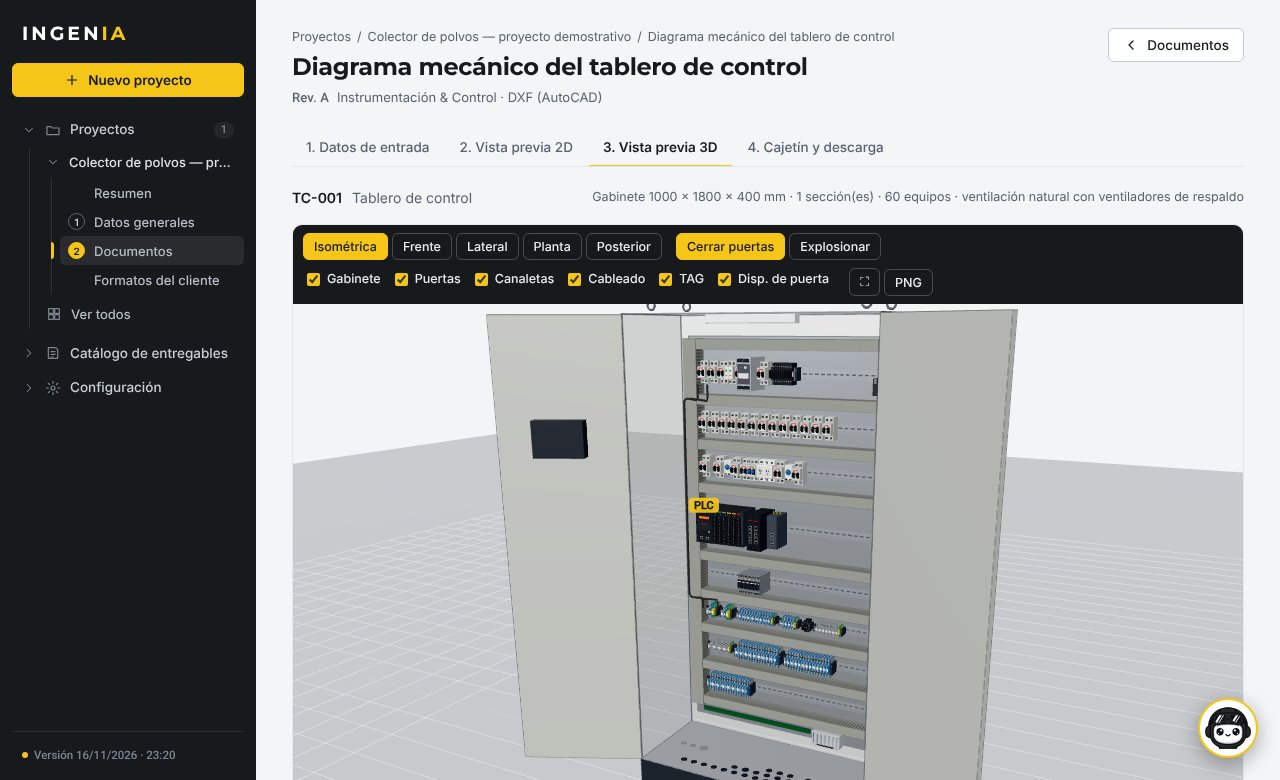
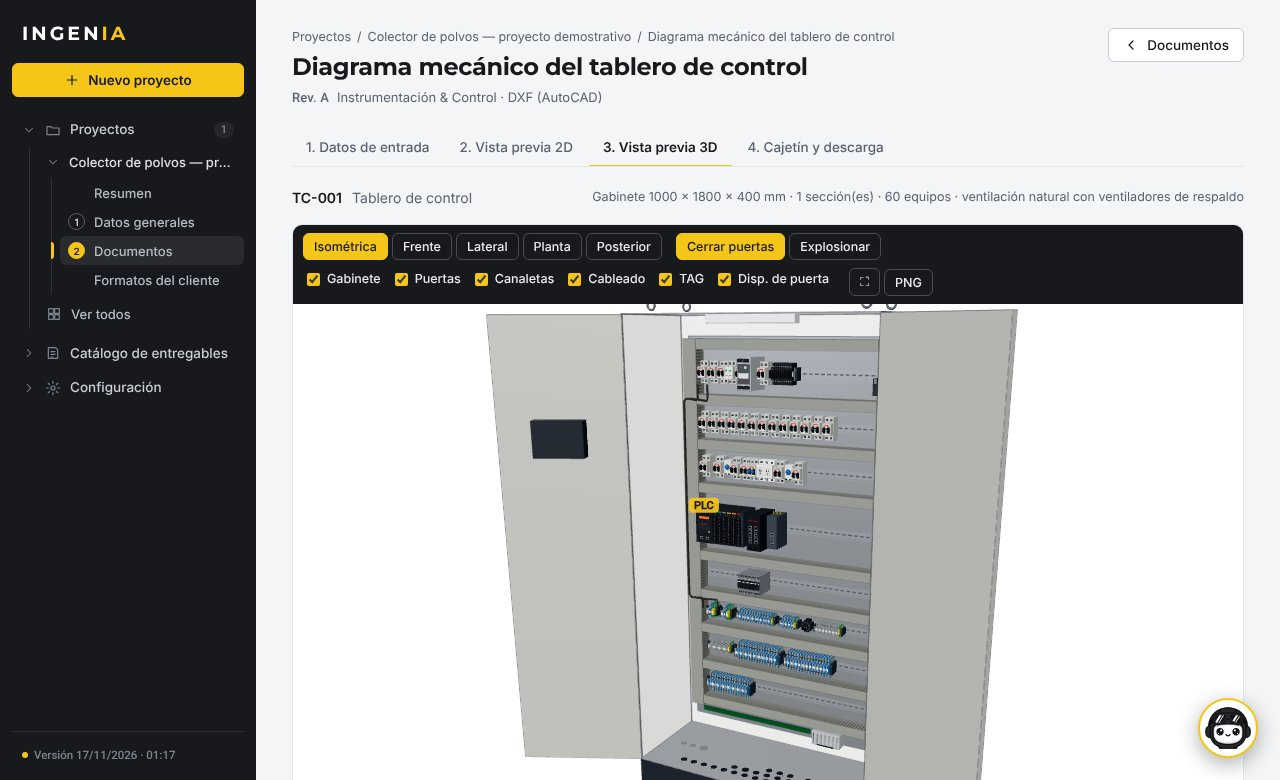
Carrusel: 3D, Copito, unifilar, multifilar y P&ID primero; visor 3D con fondo blanco sin piso ni cuadrícula
Claude-Session: https://claude.ai/code/session_01DVDnwmPbDkDWTMNANc2j3i

Changed region(s): [[0.2188, 0.5538, 0.625, 1.0], [0.75, 0.5846, 0.9688, 1.0], [0.625, 0.9538, 0.6875, 0.9846]]

diff --git a/index.html b/index.html
@@ -30,14 +30,14 @@
   </div>
   <div class="carrusel" id="carrusel" aria-roledescription="carrusel" aria-label="Vistas de proyectos generados">
     <div class="car-pista" id="car-pista">
-      <figure><img src="assets/vistas/01-resumen.jpg" alt="Resumen de un proyecto con su avance" loading="eager" width="1280" height="780"><figcaption>Resumen y avance del proyecto</figcaption></figure>
-      <figure><img src="assets/vistas/02-cargas.jpg" alt="Vista previa del listado de cargas" loading="lazy" width="1280" height="780"><figcaption>Listado de cargas con máxima demanda</figcaption></figure>
-      <figure><img src="assets/vistas/03-unifilar.jpg" alt="Diagrama unifilar del tablero de fuerza generado en DXF" loading="lazy"><figcaption>Diagrama unifilar (DXF)</figcaption></figure>
-      <figure><img src="assets/vistas/04-pid.jpg" alt="P&amp;ID esquemático con instrumentos ISA" loading="lazy"><figcaption>P&amp;ID con simbología ISA 5.1</figcaption></figure>
-      <figure><img src="assets/vistas/05-conexionado.jpg" alt="Multifilar de control: conexionado de entradas analógicas del PLC" loading="lazy"><figcaption>Multifilar de control: conexionado de E/S del PLC</figcaption></figure>
-      <figure><img src="assets/vistas/08-tablero-3d.jpg" alt="Tablero de control en 3D con sus equipos" loading="lazy" width="1280" height="780"><figcaption>Tablero de control en 2D y 3D</figcaption></figure>
-      <figure><img src="assets/vistas/06-documentos.jpg" alt="Lista de documentos con revisiones emitidas" loading="lazy" width="1280" height="780"><figcaption>Documentos y emisión de revisiones</figcaption></figure>
+      <figure><img src="assets/vistas/08-tablero-3d.jpg" alt="Tablero de control en 3D con sus equipos" loading="eager" width="1280" height="780"><figcaption>Tablero de control en 2D y 3D</figcaption></figure>
       <figure><img src="assets/vistas/07-copito.jpg" alt="Copito aplicando un cambio en un plano y listando los entregables actualizados" loading="lazy" width="1280" height="780"><figcaption>Copito edita los planos y actualiza todos los entregables</figcaption></figure>
+      <figure><img src="assets/vistas/03-unifilar.jpg" alt="Diagrama unifilar del tablero de fuerza generado en DXF" loading="lazy"><figcaption>Diagrama unifilar (DXF)</figcaption></figure>
+      <figure><img src="assets/vistas/05-conexionado.jpg" alt="Multifilar de control: conexionado de entradas analógicas del PLC" loading="lazy"><figcaption>Multifilar de control: conexionado de E/S del PLC</figcaption></figure>
+      <figure><img src="assets/vistas/04-pid.jpg" alt="P&amp;ID esquemático con instrumentos ISA" loading="lazy"><figcaption>P&amp;ID con simbología ISA 5.1</figcaption></figure>
+      <figure><img src="assets/vistas/01-resumen.jpg" alt="Resumen de un proyecto con su avance" loading="lazy" width="1280" height="780"><figcaption>Resumen y avance del proyecto</figcaption></figure>
+      <figure><img src="assets/vistas/02-cargas.jpg" alt="Vista previa del listado de cargas" loading="lazy" width="1280" height="780"><figcaption>Listado de cargas con máxima demanda</figcaption></figure>
+      <figure><img src="assets/vistas/06-documentos.jpg" alt="Lista de documentos con revisiones emitidas" loading="lazy" width="1280" height="780"><figcaption>Documentos y emisión de revisiones</figcaption></figure>
     </div>
     <button class="car-flecha izq" id="car-izq" aria-label="Imagen anterior"><svg class="icon" viewBox="0 0 24 24"><path d="M15 6l-6 6 6 6"/></svg></button>
     <button class="car-flecha der" id="car-der" aria-label="Imagen siguiente"><svg class="icon" viewBox="0 0 24 24"><path d="m9 6 6 6-6 6"/></svg></button>

diff --git a/js/mecanico/visor3d.js b/js/mecanico/visor3d.js
@@ -51,7 +51,7 @@ export async function visor3D(cont, modelo, opciones){
   const alta = calidad==="alta";
   renderer.setPixelRatio(Math.min(2, window.devicePixelRatio || 1));
   renderer.setSize(W0(), H0());
-  renderer.setClearColor(0xf3f4f6);
+  renderer.setClearColor(0xffffff, 1);   // fondo blanco liso
   renderer.toneMapping = THREE.NeutralToneMapping ?? THREE.ACESFilmicToneMapping; renderer.toneMappingExposure = 1.0;
   // sombras: se recalculan solo cuando algo se mueve (puertas, explosión, capas)
   renderer.shadowMap.enabled = alta; renderer.shadowMap.type = THREE.PCFSoftShadowMap; renderer.shadowMap.autoUpdate = false; renderer.shadowMap.needsUpdate = true;
@@ -81,10 +81,7 @@ export async function visor3D(cont, modelo, opciones){
     escena.environment = pmrem.fromScene(env, 0.035).texture; escena.environmentIntensity = 0.55;
     gs.forEach(g=>{ g.geometry.dispose(); g.material.dispose(); }); pmrem.dispose(); }
   else { escena.add(new THREE.AmbientLight(0xffffff, 0.35)); }
-  // piso
-  const piso = new THREE.Mesh(new THREE.PlaneGeometry(20, 20), new THREE.MeshStandardMaterial({ color:0xe7e9ec, roughness:1 }));
-  piso.rotation.x = -Math.PI/2; piso.position.y = -m.zocalo*k - 0.001; piso.receiveShadow = true; escena.add(piso);
-  const grid = new THREE.GridHelper(10, 50, 0xc9cdd3, 0xdde0e4); grid.position.y = -m.zocalo*k; escena.add(grid);
+  // sin piso ni cuadrícula: el modelo se presenta sobre fondo blanco liso
 
   const raiz = new THREE.Group(); raiz.position.set(-m.W/2*k, 0, -m.D/2*k); escena.add(raiz);
   const capas = { envolvente:new THREE.Group(), interior:new THREE.Group(), canaletas:new THREE.Group(), cables:new THREE.Group(), etiquetas:new THREE.Group(), puerta:new THREE.Group() };

diff --git a/css/ingenia.css b/css/ingenia.css
@@ -518,7 +518,7 @@ td.num.err{color:var(--err); font-weight:600;}
 /* ---------- plano mecánico: criterios y vista previa 3D ---------- */
 .mec-crit{margin:6px 0 0;padding-left:18px;font-size:13px;line-height:1.5;color:var(--text);}
 .mec-crit li{margin-bottom:3px;}
-.v3d{position:relative;border:1px solid var(--border);border-radius:var(--radius-lg);overflow:hidden;background:#f3f4f6;}
+.v3d{position:relative;border:1px solid var(--border);border-radius:var(--radius-lg);overflow:hidden;background:#fff;}
 .v3d:fullscreen{border-radius:0;display:flex;flex-direction:column;}
 .v3d-barra{display:flex;flex-wrap:wrap;gap:8px 14px;align-items:center;padding:8px 10px;background:var(--grafito);color:#fff;}
 .v3d-grupo{display:flex;flex-wrap:wrap;gap:4px;align-items:center;}
